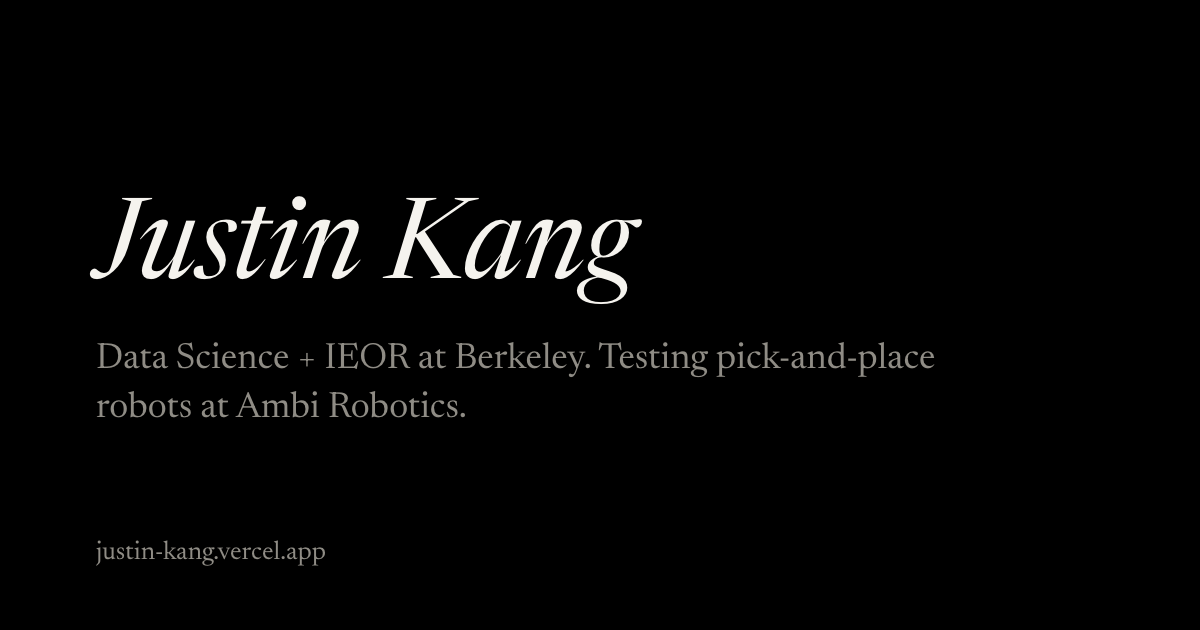
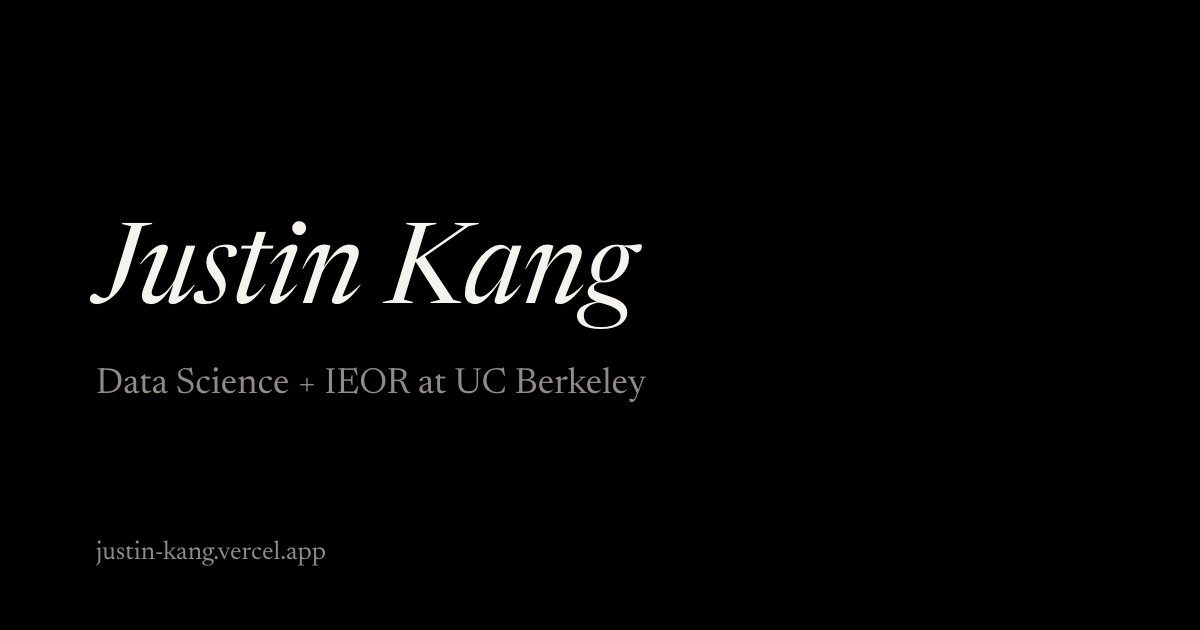
Shorten home intro line; show About portrait in color

Changed region(s): [[0.0617, 0.3016, 0.7708, 0.6635]]

diff --git a/scripts/og-image.html b/scripts/og-image.html
@@ -10,6 +10,6 @@ h1{margin:0;font-weight:400;font-style:italic;font-size:112px;line-height:1;lett
 p{margin:28px 0 0;font-size:36px;line-height:1.35;color:#8f8c85;max-width:900px}
 .url{position:absolute;left:96px;bottom:64px;font-size:26px;color:#8f8c85}
 </style></head><body>
-<div class="wrap"><h1>Justin Kang</h1><p>Data Science + IEOR at Berkeley. Testing pick-and-place robots at Ambi Robotics.</p></div>
+<div class="wrap"><h1>Justin Kang</h1><p>Data Science + IEOR at UC Berkeley</p></div>
 <div class="url">justin-kang.vercel.app</div>
 </body></html>

diff --git a/src/data/site.ts b/src/data/site.ts
@@ -1,7 +1,7 @@
 export const site = {
   name: 'Justin Kang',
   // The one line under your name on the home page.
-  intro: 'Data Science + IEOR at Berkeley. Testing pick-and-place robots at Ambi Robotics.',
+  intro: 'Data Science + IEOR at UC Berkeley',
   email: 'justin-kang@berkeley.edu',
   links: {
     github: 'https://github.com/KangJustin',

diff --git a/src/simple.css b/src/simple.css
@@ -233,7 +233,6 @@ a.sb-name:hover {
   display: block;
   width: 180px;
   margin-bottom: 2em;
-  filter: grayscale(1);
 }
 
 /* ---------- sections ---------- */
